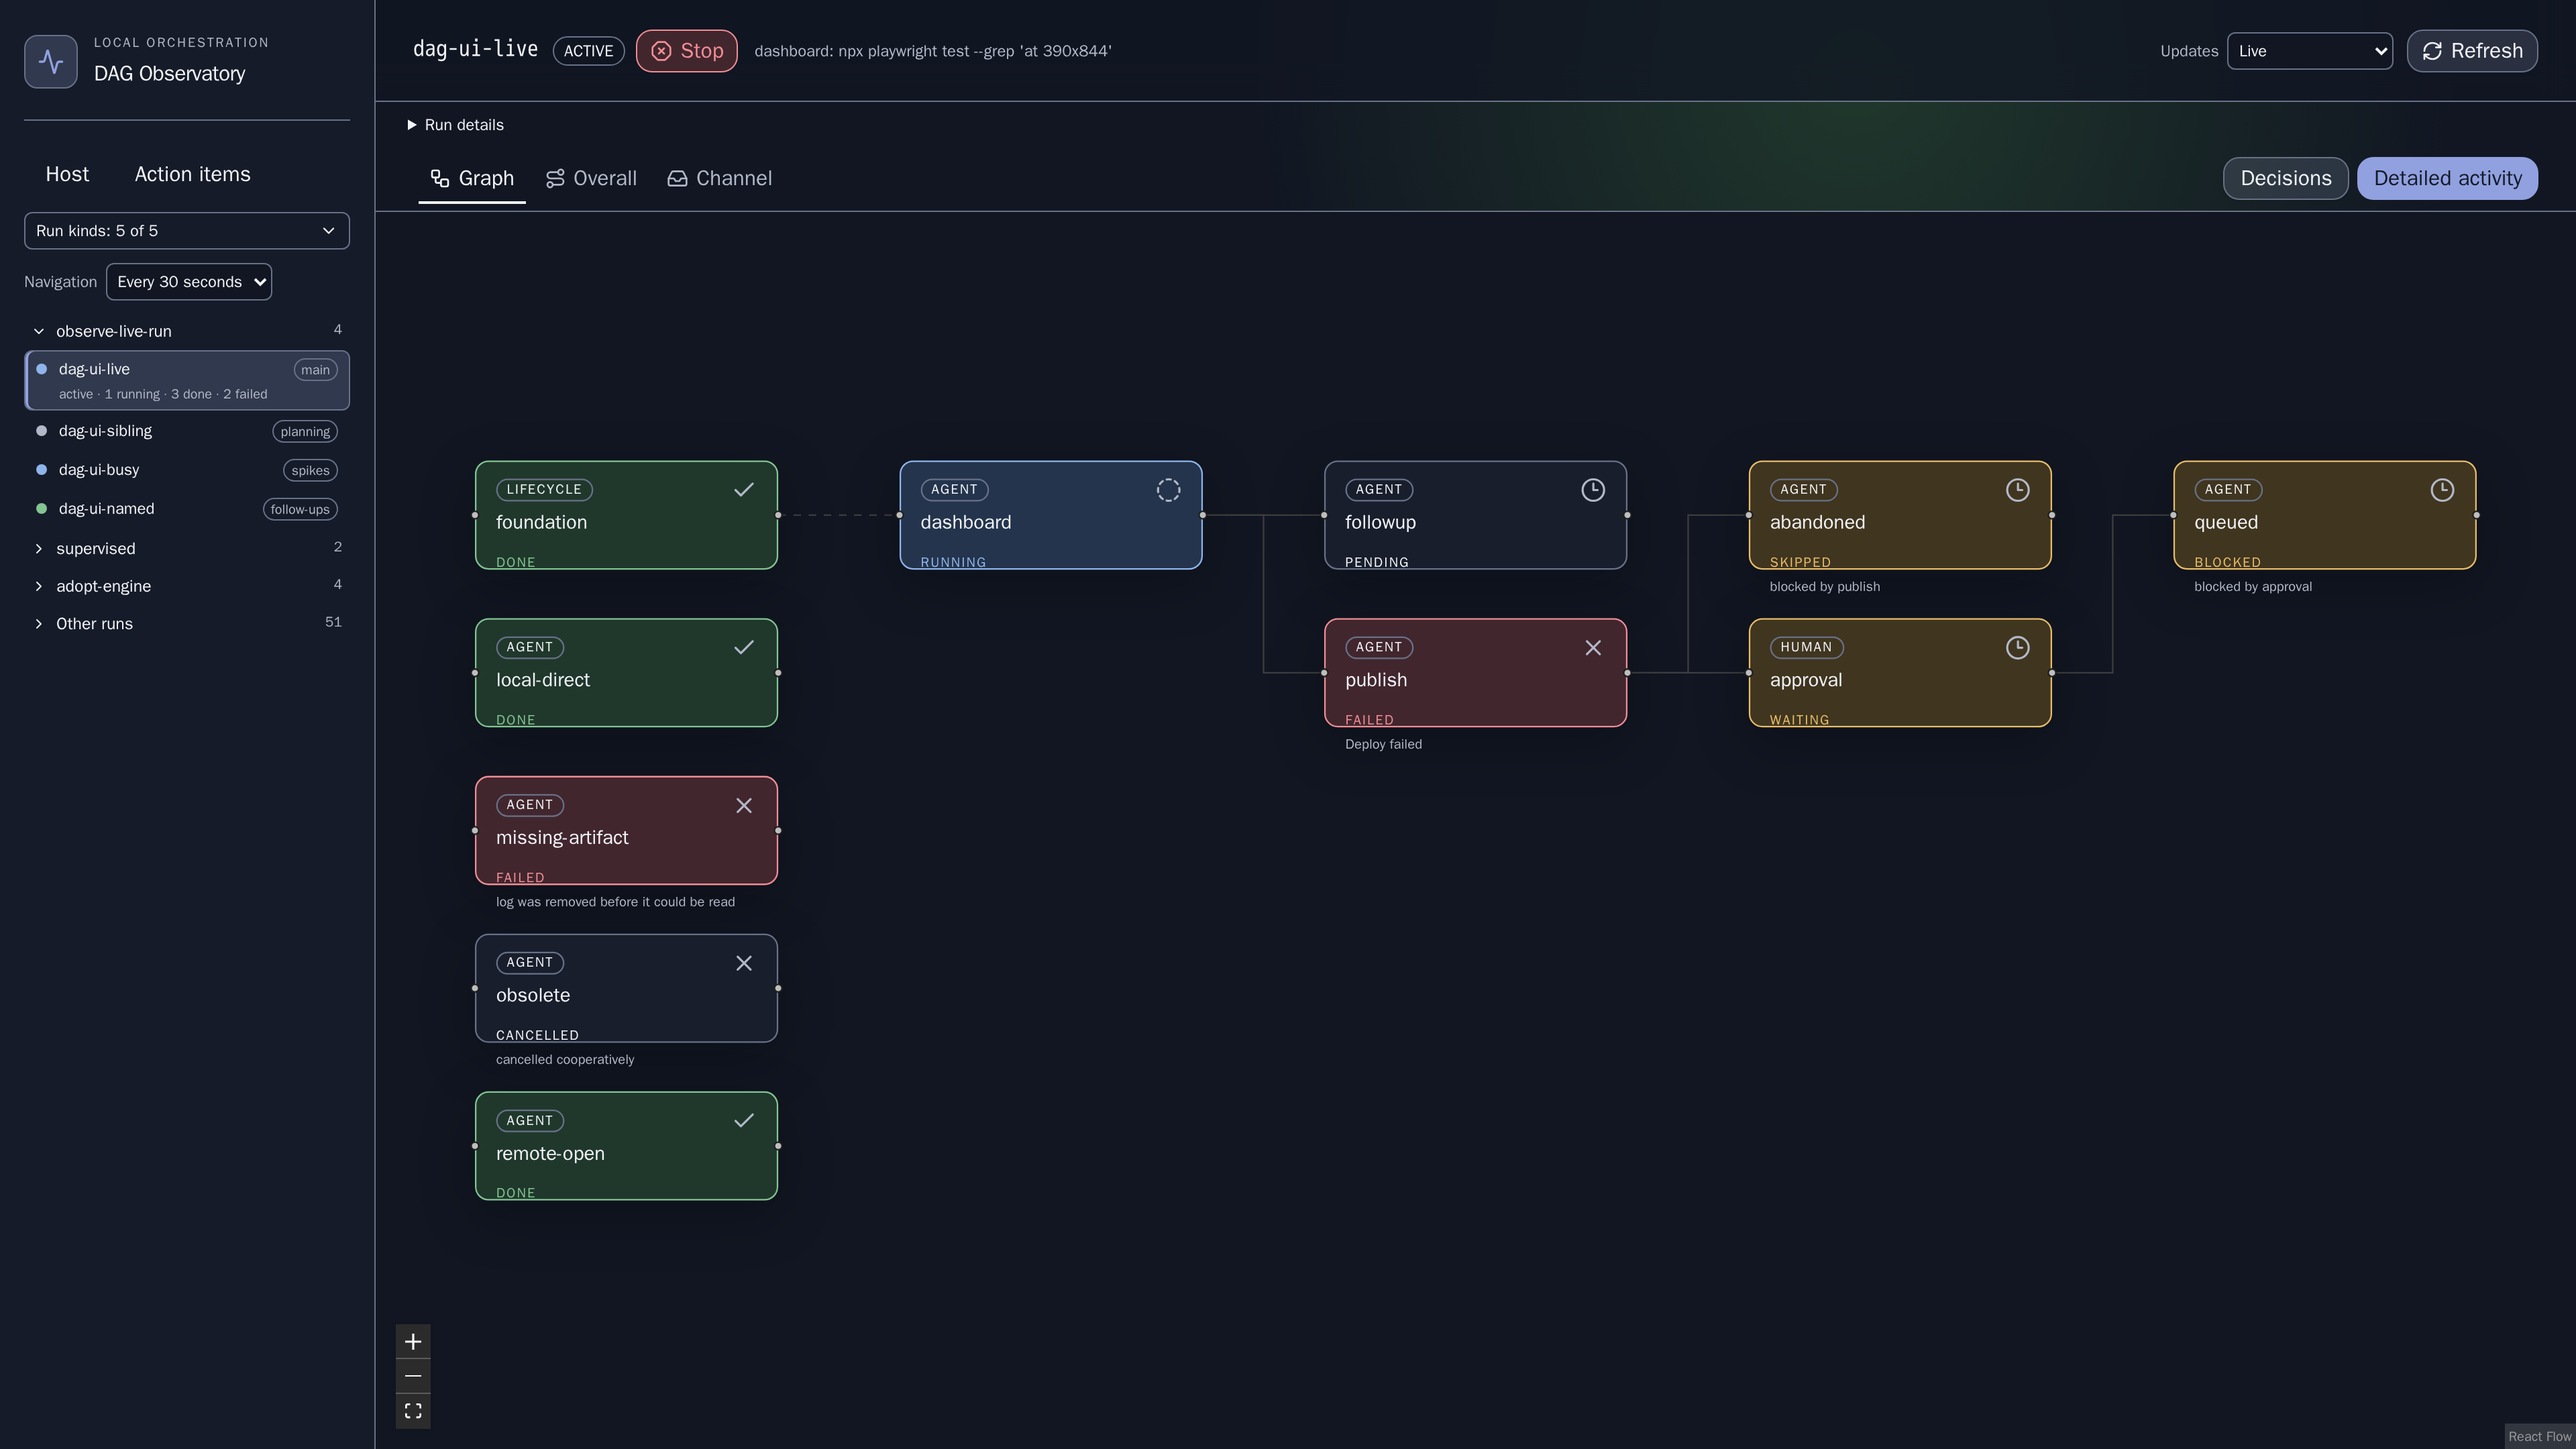
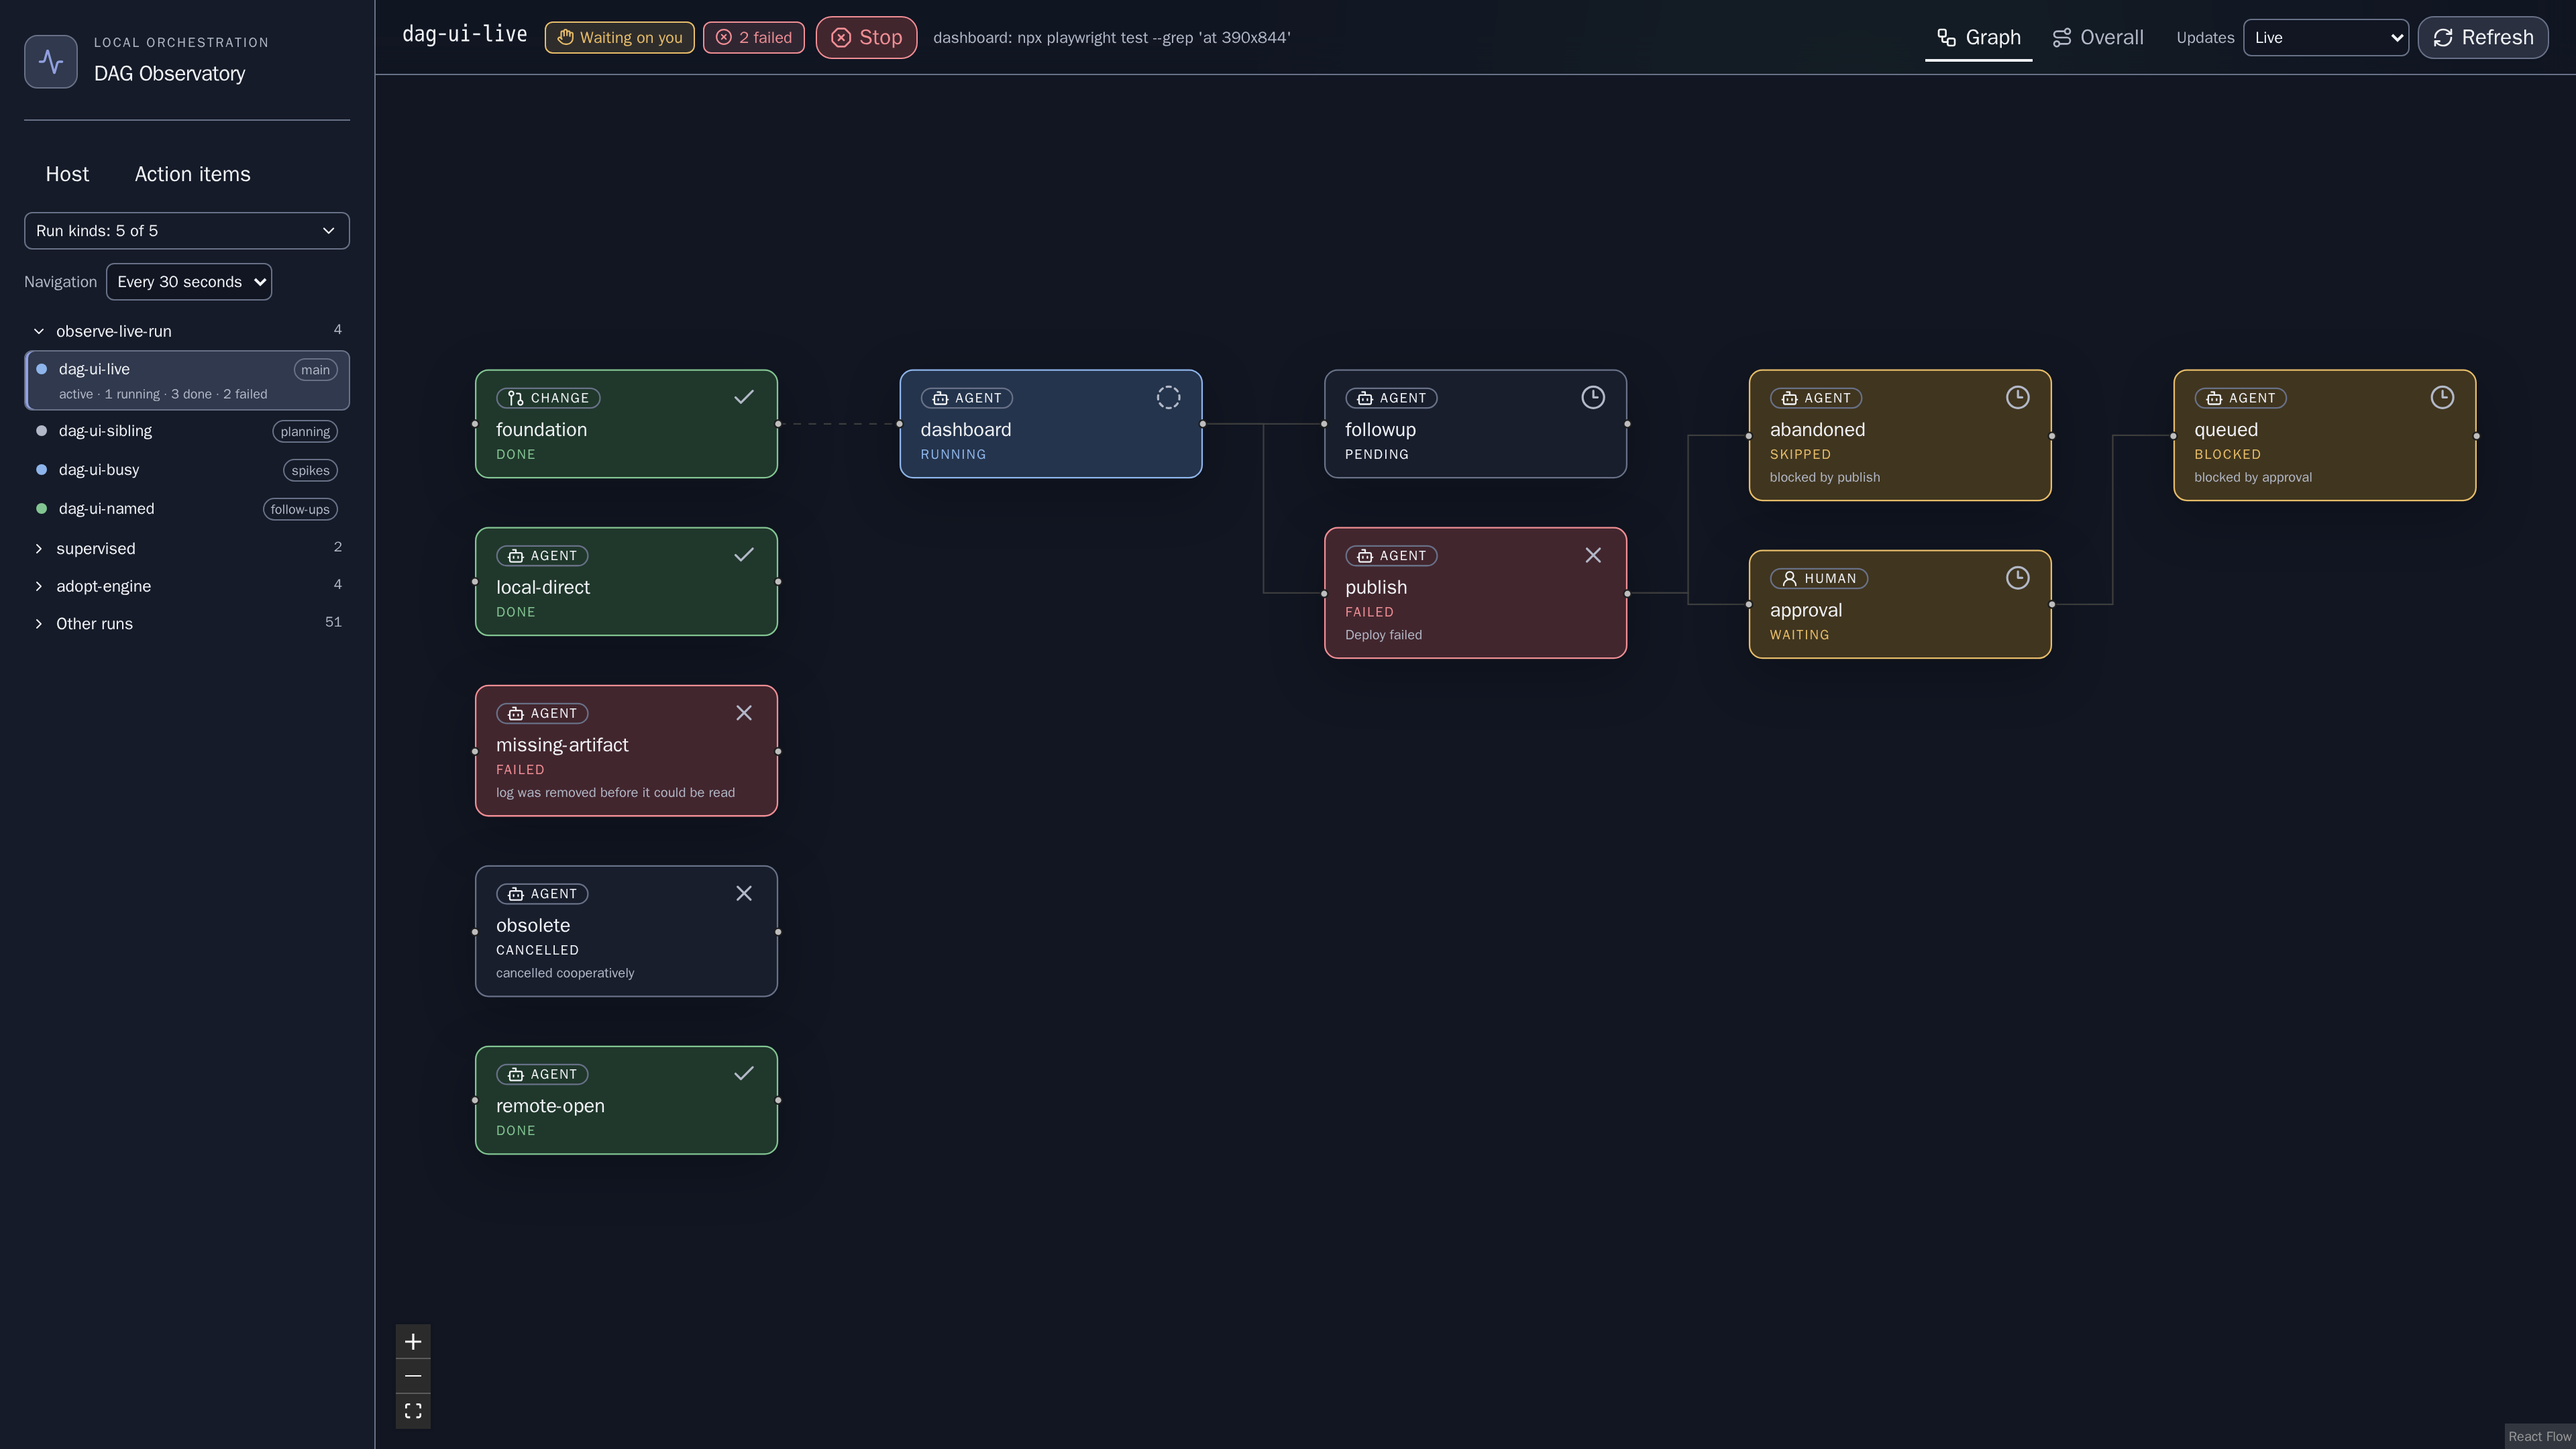
docs(dag-ui): the screenshot baseline and README images as the run page now renders

diff --git a/README.md b/README.md
@@ -20,7 +20,7 @@ read as a whole: its telemetry tiles over the graph timeline, which is the same 
 the same lane words and the same clock used at three scopes — the whole run, one node,
 one conversation — each a single click into the last.
 
-The browser can stop a run, attest a human action, reply on the channel, and shut
+The browser can stop a run, answer the action items waiting on a person, and shut
 down the whole host — each behind a confirm
 that names what it will act on, and each showing the engine's own receipt or refusal
 verbatim rather than a restatement of it. [`docs/dag-ui.md`](docs/dag-ui.md) is the
@@ -68,18 +68,6 @@ The sidebar lists projects by most recent activity, with their runs underneath.
 Selecting a project opens its newest visible run. Kind filters are discovered from
 run labels and saved in the URL. Ungrouped runs sit under **Other runs** at the end.
 **Host** opens resources, unwatched runs, and the confirmed host shutdown.
-
-### The channel
-
-![The Channel tab: questions with their correlated replies directly beneath them, one-line message previews, an unanswered question marked waiting, and the reply composer below](docs/screens/13-channel-1440x900.png)
-
-The run's channel pairs each question with the replies whose correlation answers it,
-newest question first. An unanswered question says it is waiting. Each message shows
-its first line and expands to its complete text; a reply's raw envelope is one further
-expansion away. Reading consumes nothing. The
-composer sends the editor's text **byte for byte** — never a parse of it — so a manager
-can type an envelope this app has never heard of and the engine's refusal of a
-malformed one is the engine's own.
 
 ### At the width it is actually read
 
